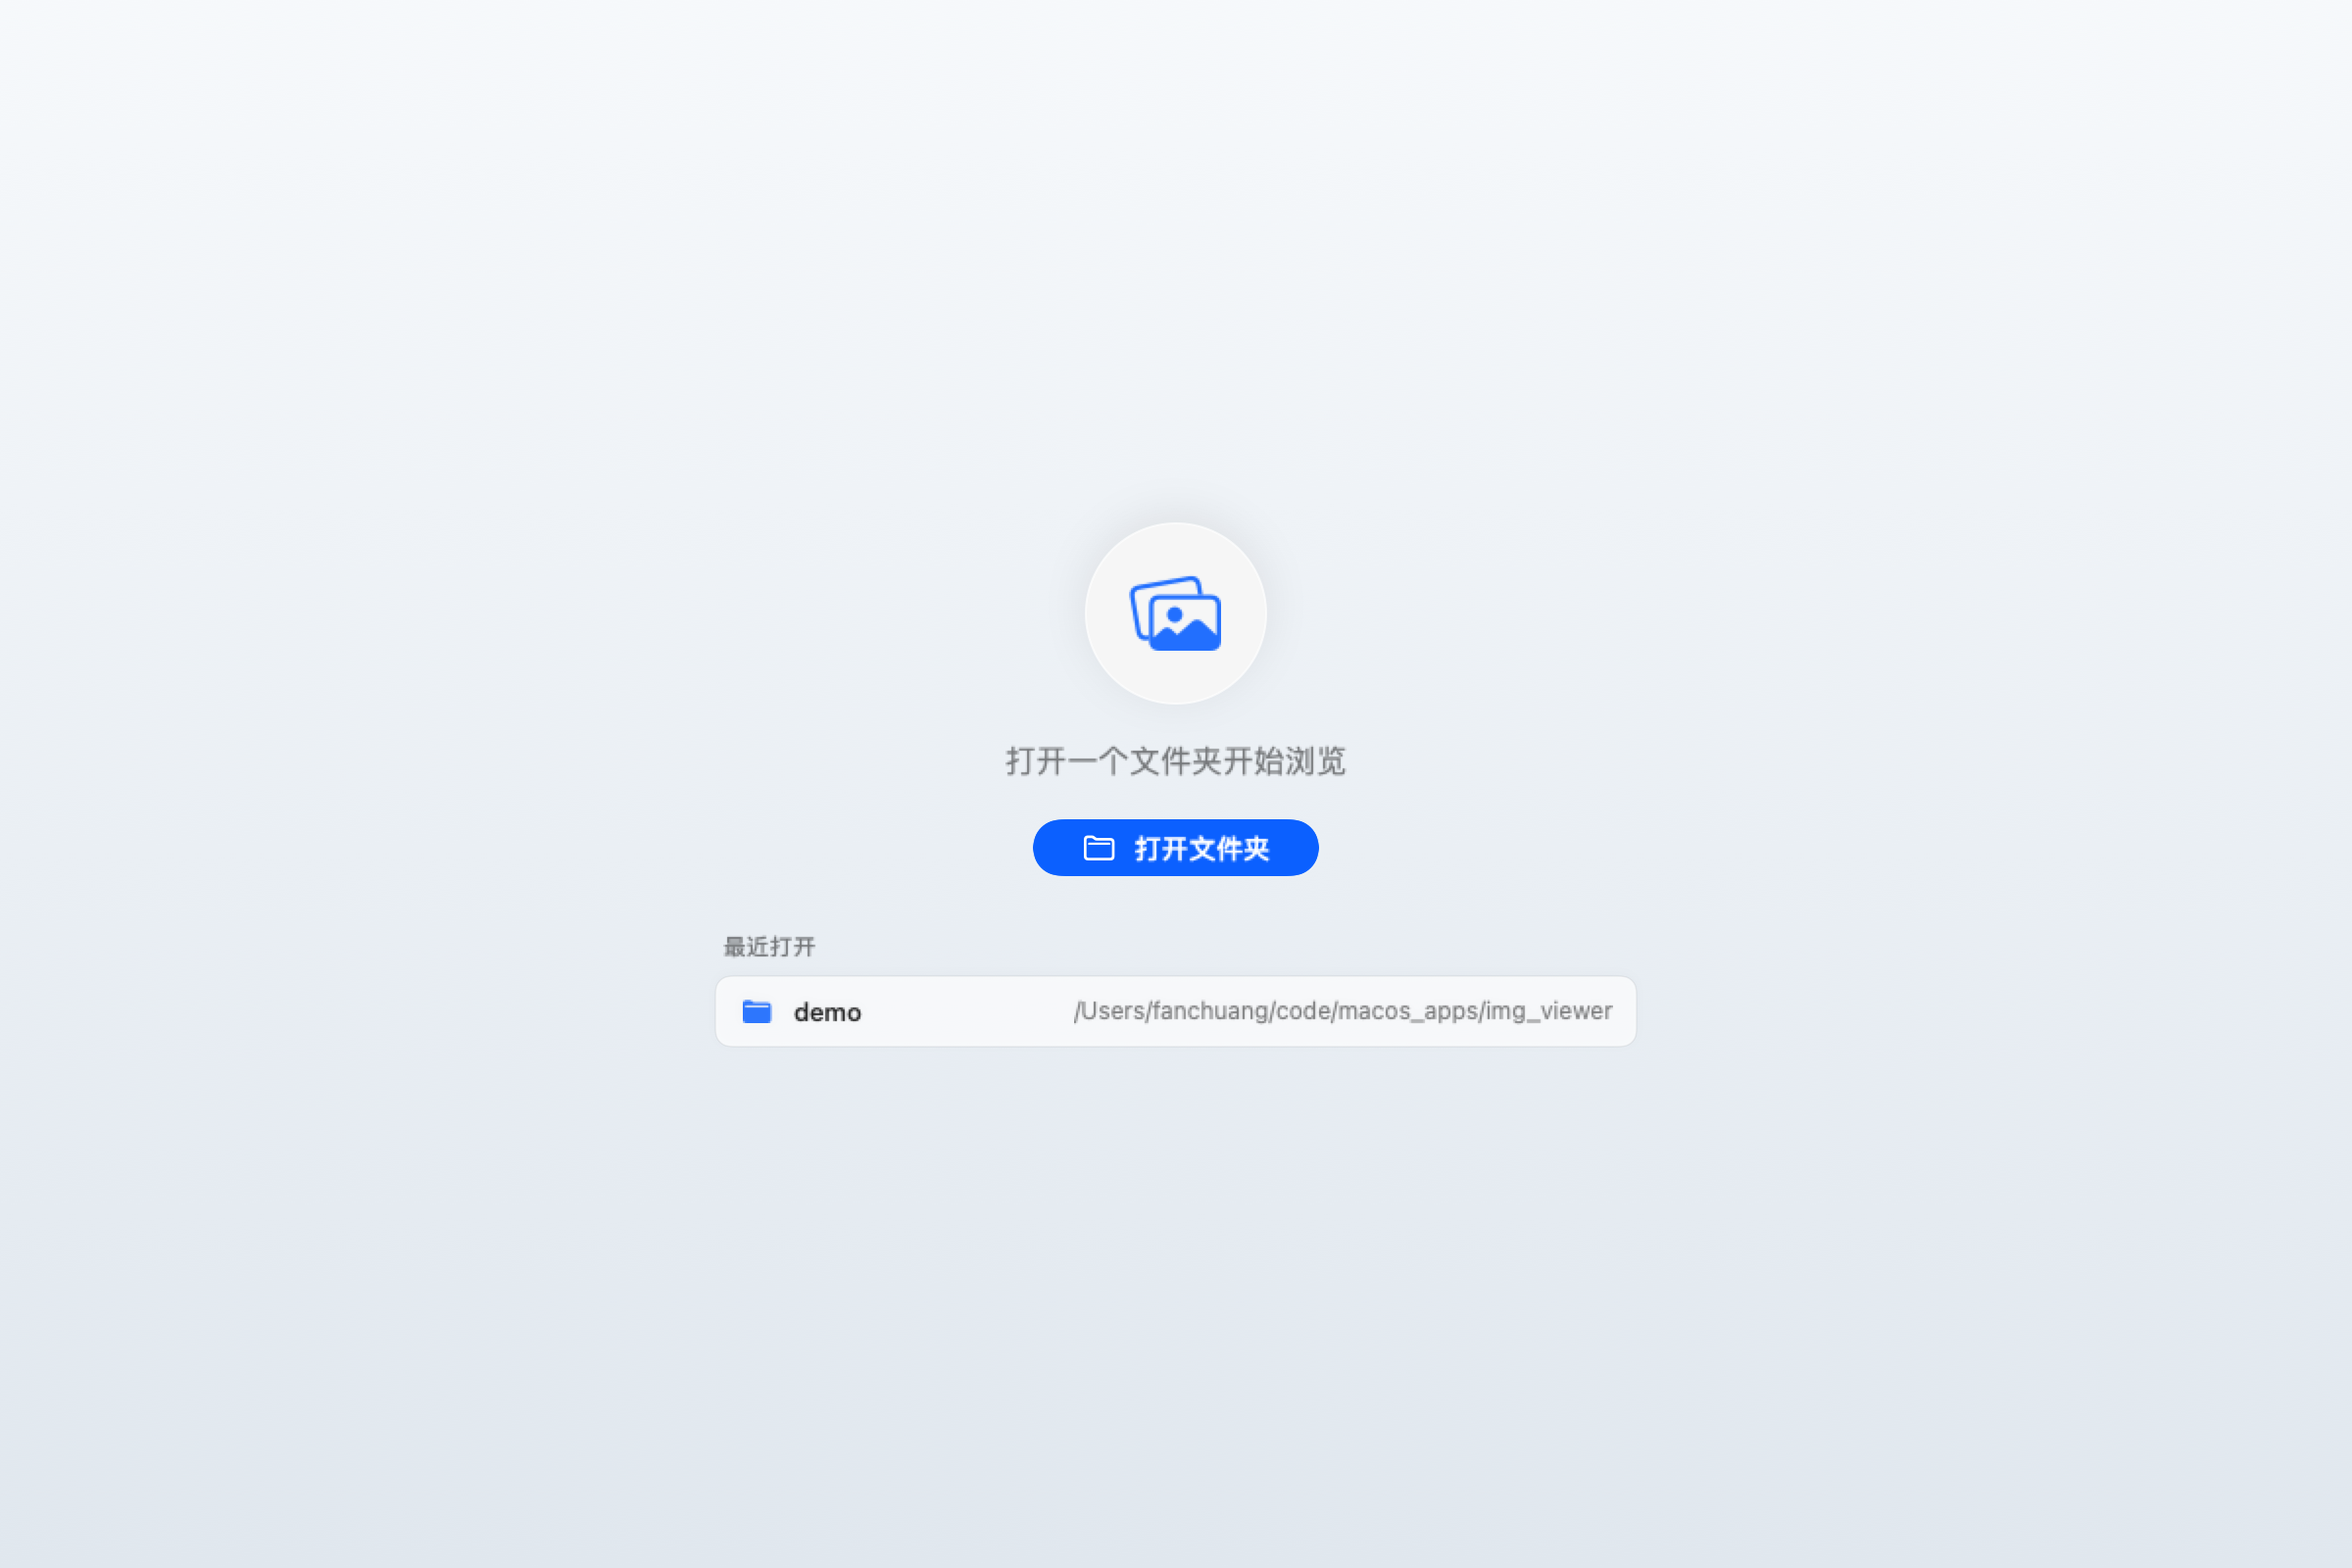
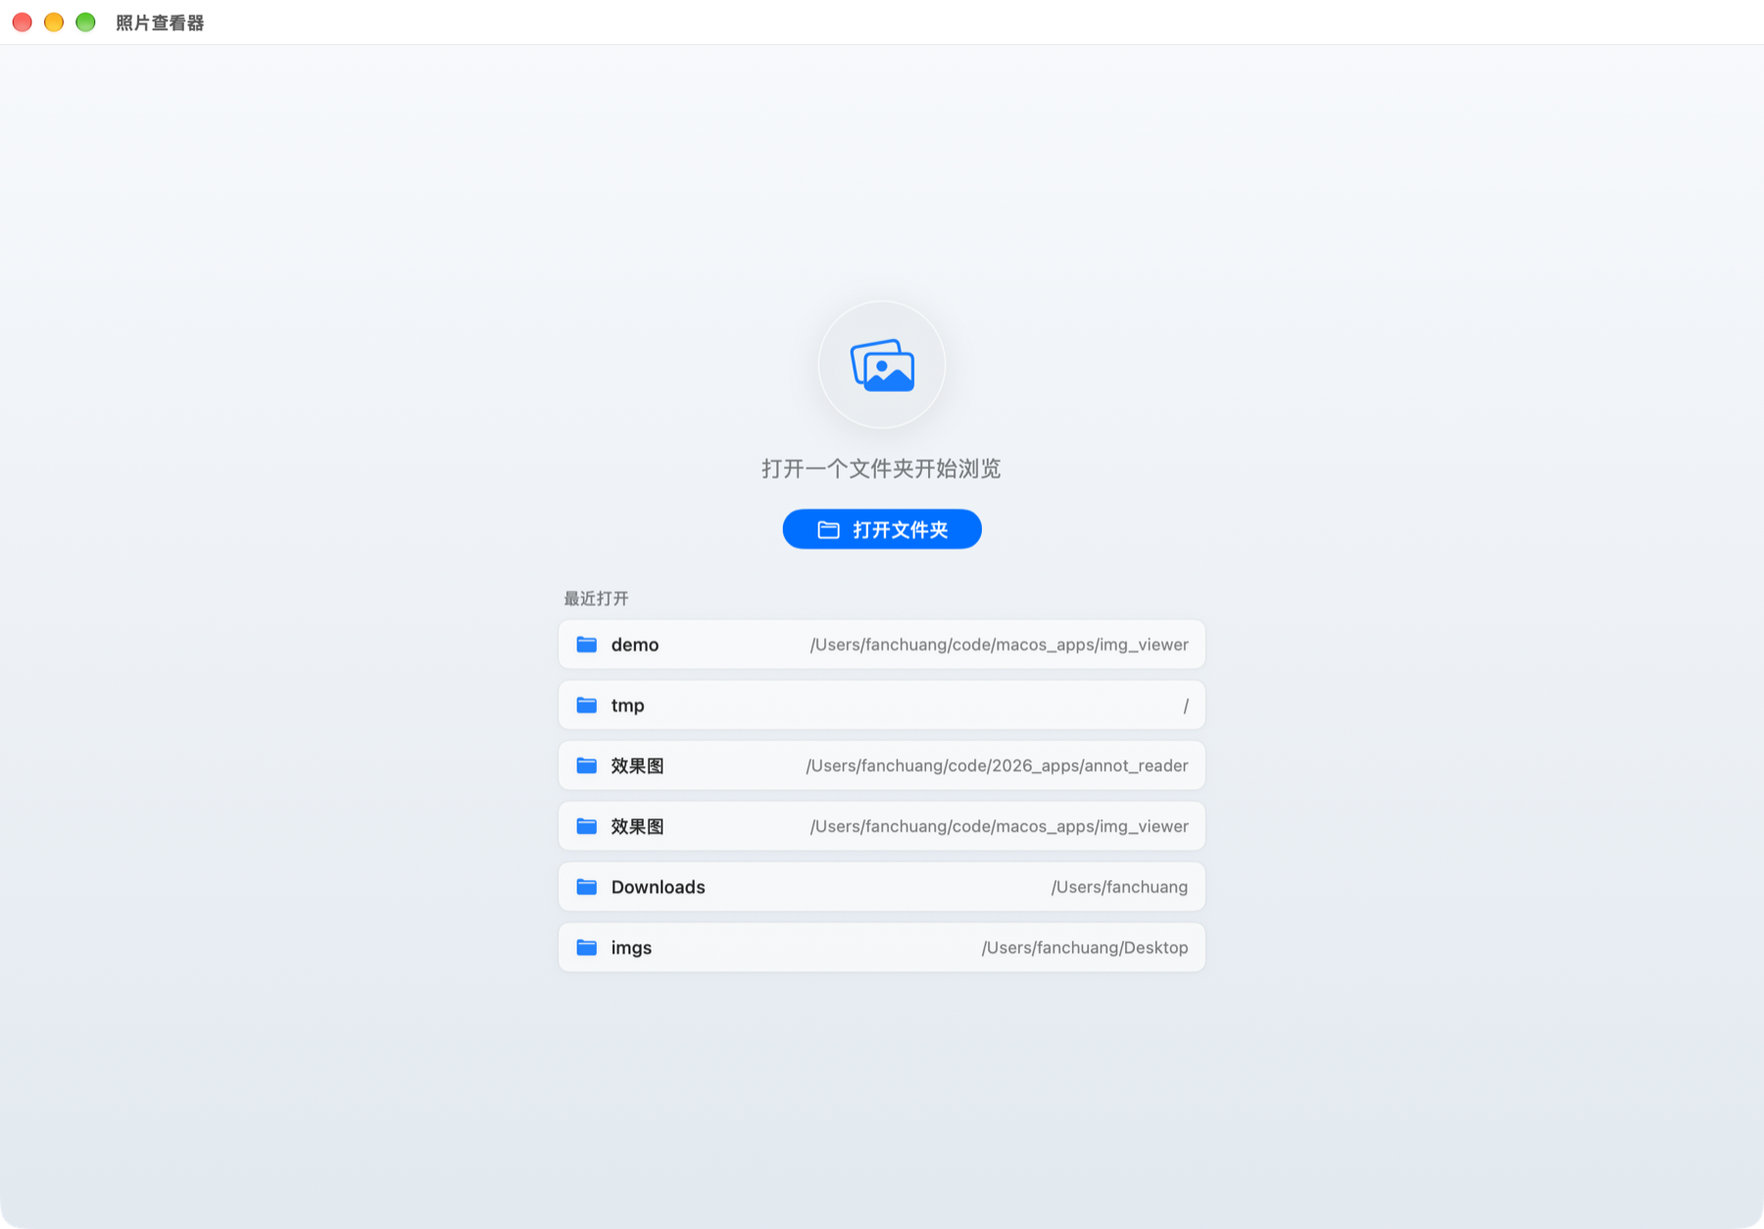
chore(render): 效果图改用完整窗口截图

diff --git a/Sources/ImgViewer/RenderMode.swift b/Sources/ImgViewer/RenderMode.swift
@@ -10,8 +10,6 @@ enum RenderMode {
         try? FileManager.default.createDirectory(at: output, withIntermediateDirectories: true)
         let folder = value(after: "--folder", in: arguments).map { URL(fileURLWithPath: $0) }
 
-        renderViewer(folder: folder, output: output.appendingPathComponent("01-查看器.png"))
-        renderEmpty(folder: folder, output: output.appendingPathComponent("02-图片库.png"))
         renderSlideshow(folder: folder, output: output.appendingPathComponent("03-幻灯片.png"))
         renderOptions(output: output.appendingPathComponent("04-选项.png"))
     }
@@ -24,10 +22,7 @@ enum RenderMode {
             model.canvas.fitToWindow()
             pump(seconds: 0.3)
         }
-        let view = ContentView()
-            .environmentObject(model)
-            .frame(width: 1200, height: 800)
-        write(view, size: NSSize(width: 1200, height: 800), to: output)
+        snapshotWindow(model: model, output: output)
     }
 
     private static func renderEmpty(folder: URL?, output: URL) {
@@ -36,10 +31,7 @@ enum RenderMode {
             model.store.remember(folder: folder)
             model.refreshRecent()
         }
-        let view = ContentView()
-            .environmentObject(model)
-            .frame(width: 1200, height: 800)
-        write(view, size: NSSize(width: 1200, height: 800), to: output)
+        snapshotWindow(model: model, output: output)
     }
 
     private static func renderSlideshow(folder: URL?, output: URL) {
@@ -62,6 +54,35 @@ enum RenderMode {
         let view = OptionsView(model: model)
             .background(Color(nsColor: .windowBackgroundColor))
         write(view, size: NSSize(width: 480, height: 380), to: output)
+    }
+
+    private static func snapshotWindow(model: AppModel, output: URL) {
+        let panel = NSWindow(
+            contentRect: NSRect(x: 0, y: 0, width: 1280, height: 860),
+            styleMask: [.titled, .closable, .miniaturizable, .resizable],
+            backing: .buffered,
+            defer: false
+        )
+        panel.title = model.windowTitle
+        panel.contentView = NSHostingView(rootView: ContentView().environmentObject(model))
+        panel.center()
+        NSApp.activate(ignoringOtherApps: true)
+        panel.makeKeyAndOrderFront(nil)
+        panel.makeKey()
+        NSRunningApplication.current.activate(options: [.activateAllWindows, .activateIgnoringOtherApps])
+        pump(seconds: 0.6)
+        guard let frameView = panel.contentView?.superview else {
+            panel.orderOut(nil)
+            return
+        }
+        frameView.layoutSubtreeIfNeeded()
+        if let rep = frameView.bitmapImageRepForCachingDisplay(in: frameView.bounds) {
+            frameView.cacheDisplay(in: frameView.bounds, to: rep)
+            if let data = rep.representation(using: .png, properties: [:]) {
+                try? data.write(to: output)
+            }
+        }
+        panel.orderOut(nil)
     }
 
     private static func makeModel() -> AppModel {

diff --git a/Sources/ImgViewer/AppDelegate.swift b/Sources/ImgViewer/AppDelegate.swift
@@ -21,10 +21,47 @@ final class AppDelegate: NSObject, NSApplicationDelegate, NSMenuItemValidation, 
     func applicationDidFinishLaunching(_ notification: Notification) {
         buildMenu()
         installMonitor()
+
+        let arguments = CommandLine.arguments
+        if let index = arguments.firstIndex(of: "--snapshot"),
+           arguments.indices.contains(index + 1) {
+            let output = arguments[index + 1]
+            if arguments.indices.contains(index + 2) {
+                open(URL(fileURLWithPath: arguments[index + 2]))
+            }
+            if contexts.isEmpty {
+                makeWindow()
+            }
+            NSApp.activate(ignoringOtherApps: true)
+            DispatchQueue.main.asyncAfter(deadline: .now() + 1.5) { [weak self] in
+                self?.captureActiveWindow(to: output)
+                NSApp.terminate(nil)
+            }
+            return
+        }
+
         if !openLaunchArgumentIfNeeded() && contexts.isEmpty {
             makeWindow()
         }
         NSApp.activate(ignoringOtherApps: true)
+    }
+
+    private func captureActiveWindow(to path: String) {
+        guard let window = activeContext?.window,
+              let frameView = window.contentView?.superview else { return }
+        let windowID = CGWindowID(window.windowNumber)
+        if let image = CGWindowListCreateImage(.null, .optionIncludingWindow, windowID, [.boundsIgnoreFraming, .bestResolution]) {
+            let rep = NSBitmapImageRep(cgImage: image)
+            if let data = rep.representation(using: .png, properties: [:]) {
+                try? data.write(to: URL(fileURLWithPath: path))
+                return
+            }
+        }
+        frameView.layoutSubtreeIfNeeded()
+        guard let rep = frameView.bitmapImageRepForCachingDisplay(in: frameView.bounds) else { return }
+        frameView.cacheDisplay(in: frameView.bounds, to: rep)
+        guard let data = rep.representation(using: .png, properties: [:]) else { return }
+        try? data.write(to: URL(fileURLWithPath: path))
     }
 
     func applicationShouldTerminateAfterLastWindowClosed(_ sender: NSApplication) -> Bool {
